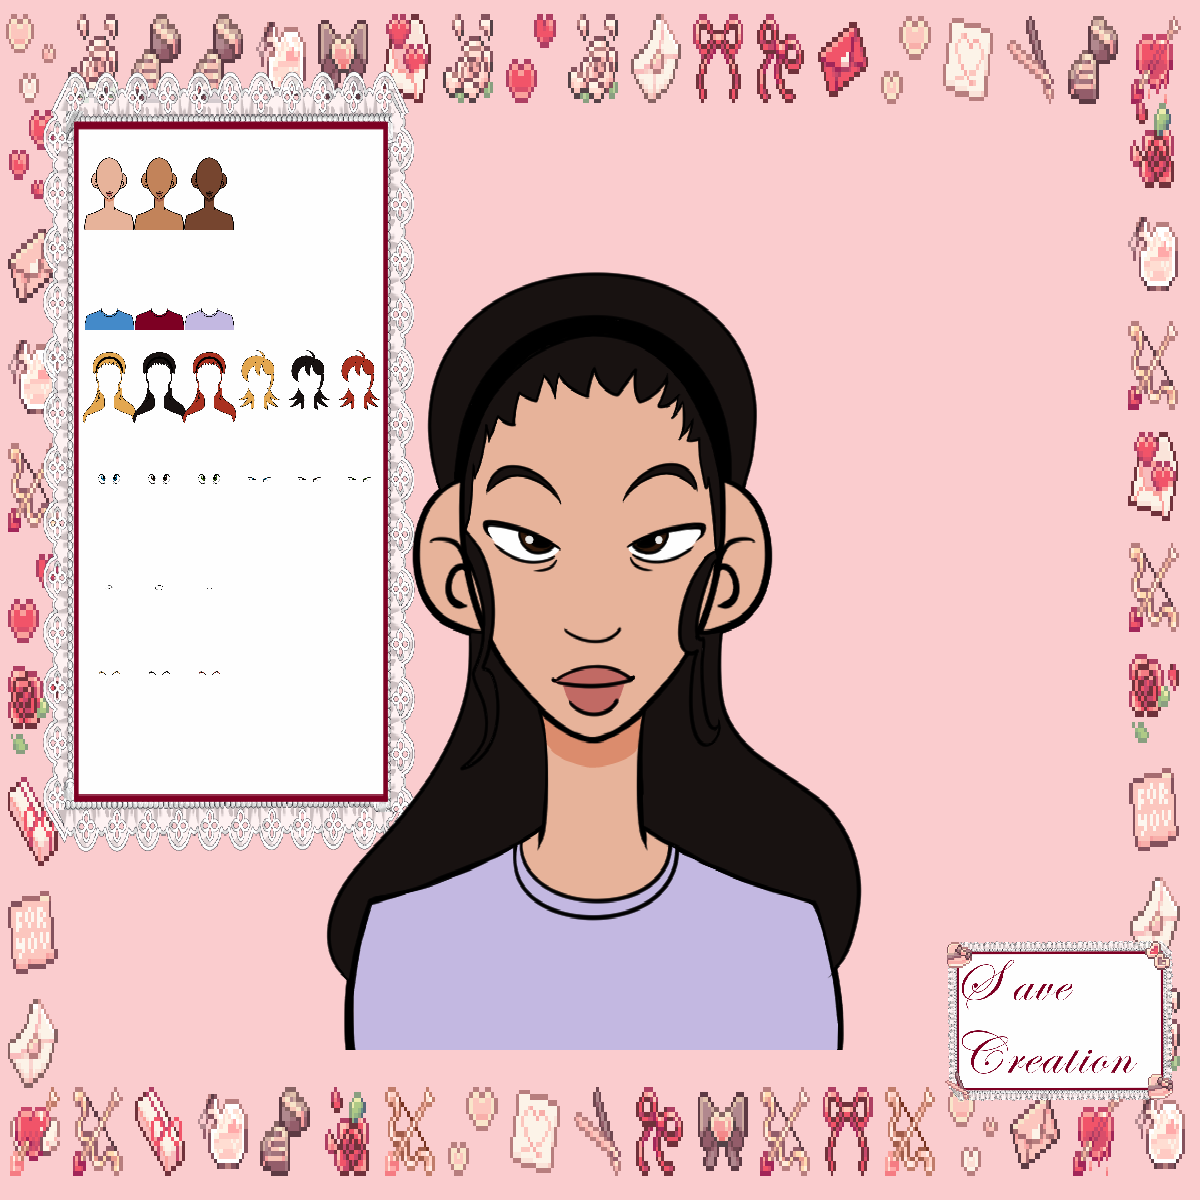
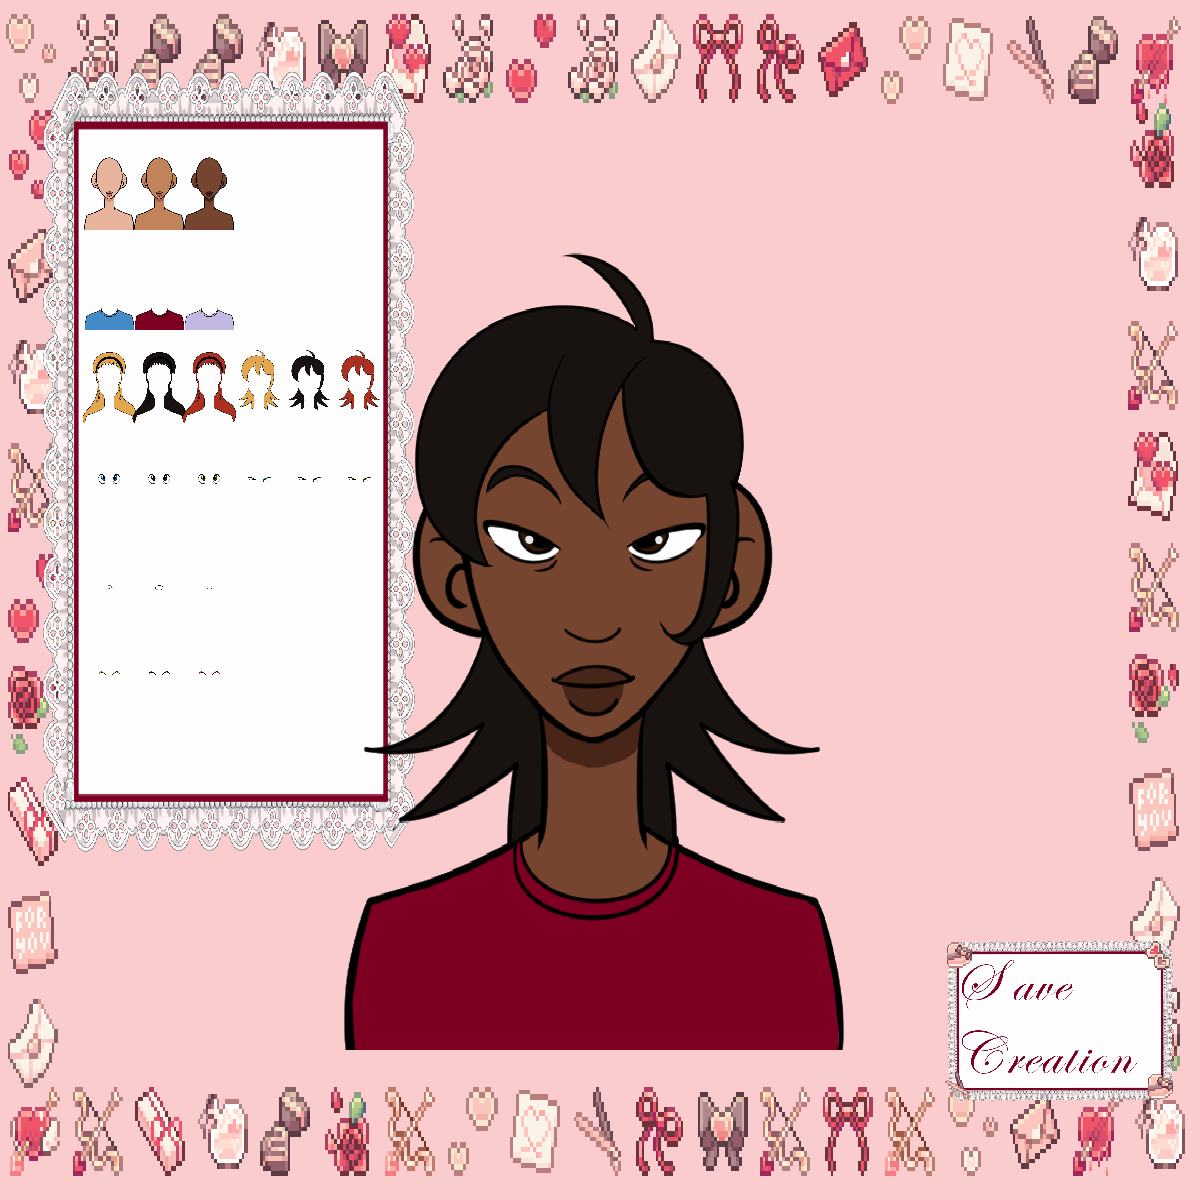
Added youtube link and deleted the saved character image from the demo video

Changed region(s): [[0.2467, 0.2158, 0.74, 0.8942]]

diff --git a/README.md b/README.md
@@ -45,4 +45,4 @@ Minimal Viable Outcome:
   2. Final optimizations and turn in!
 
   ## Youtube Link
-  
+  https://youtu.be/hzDHDLod9aA